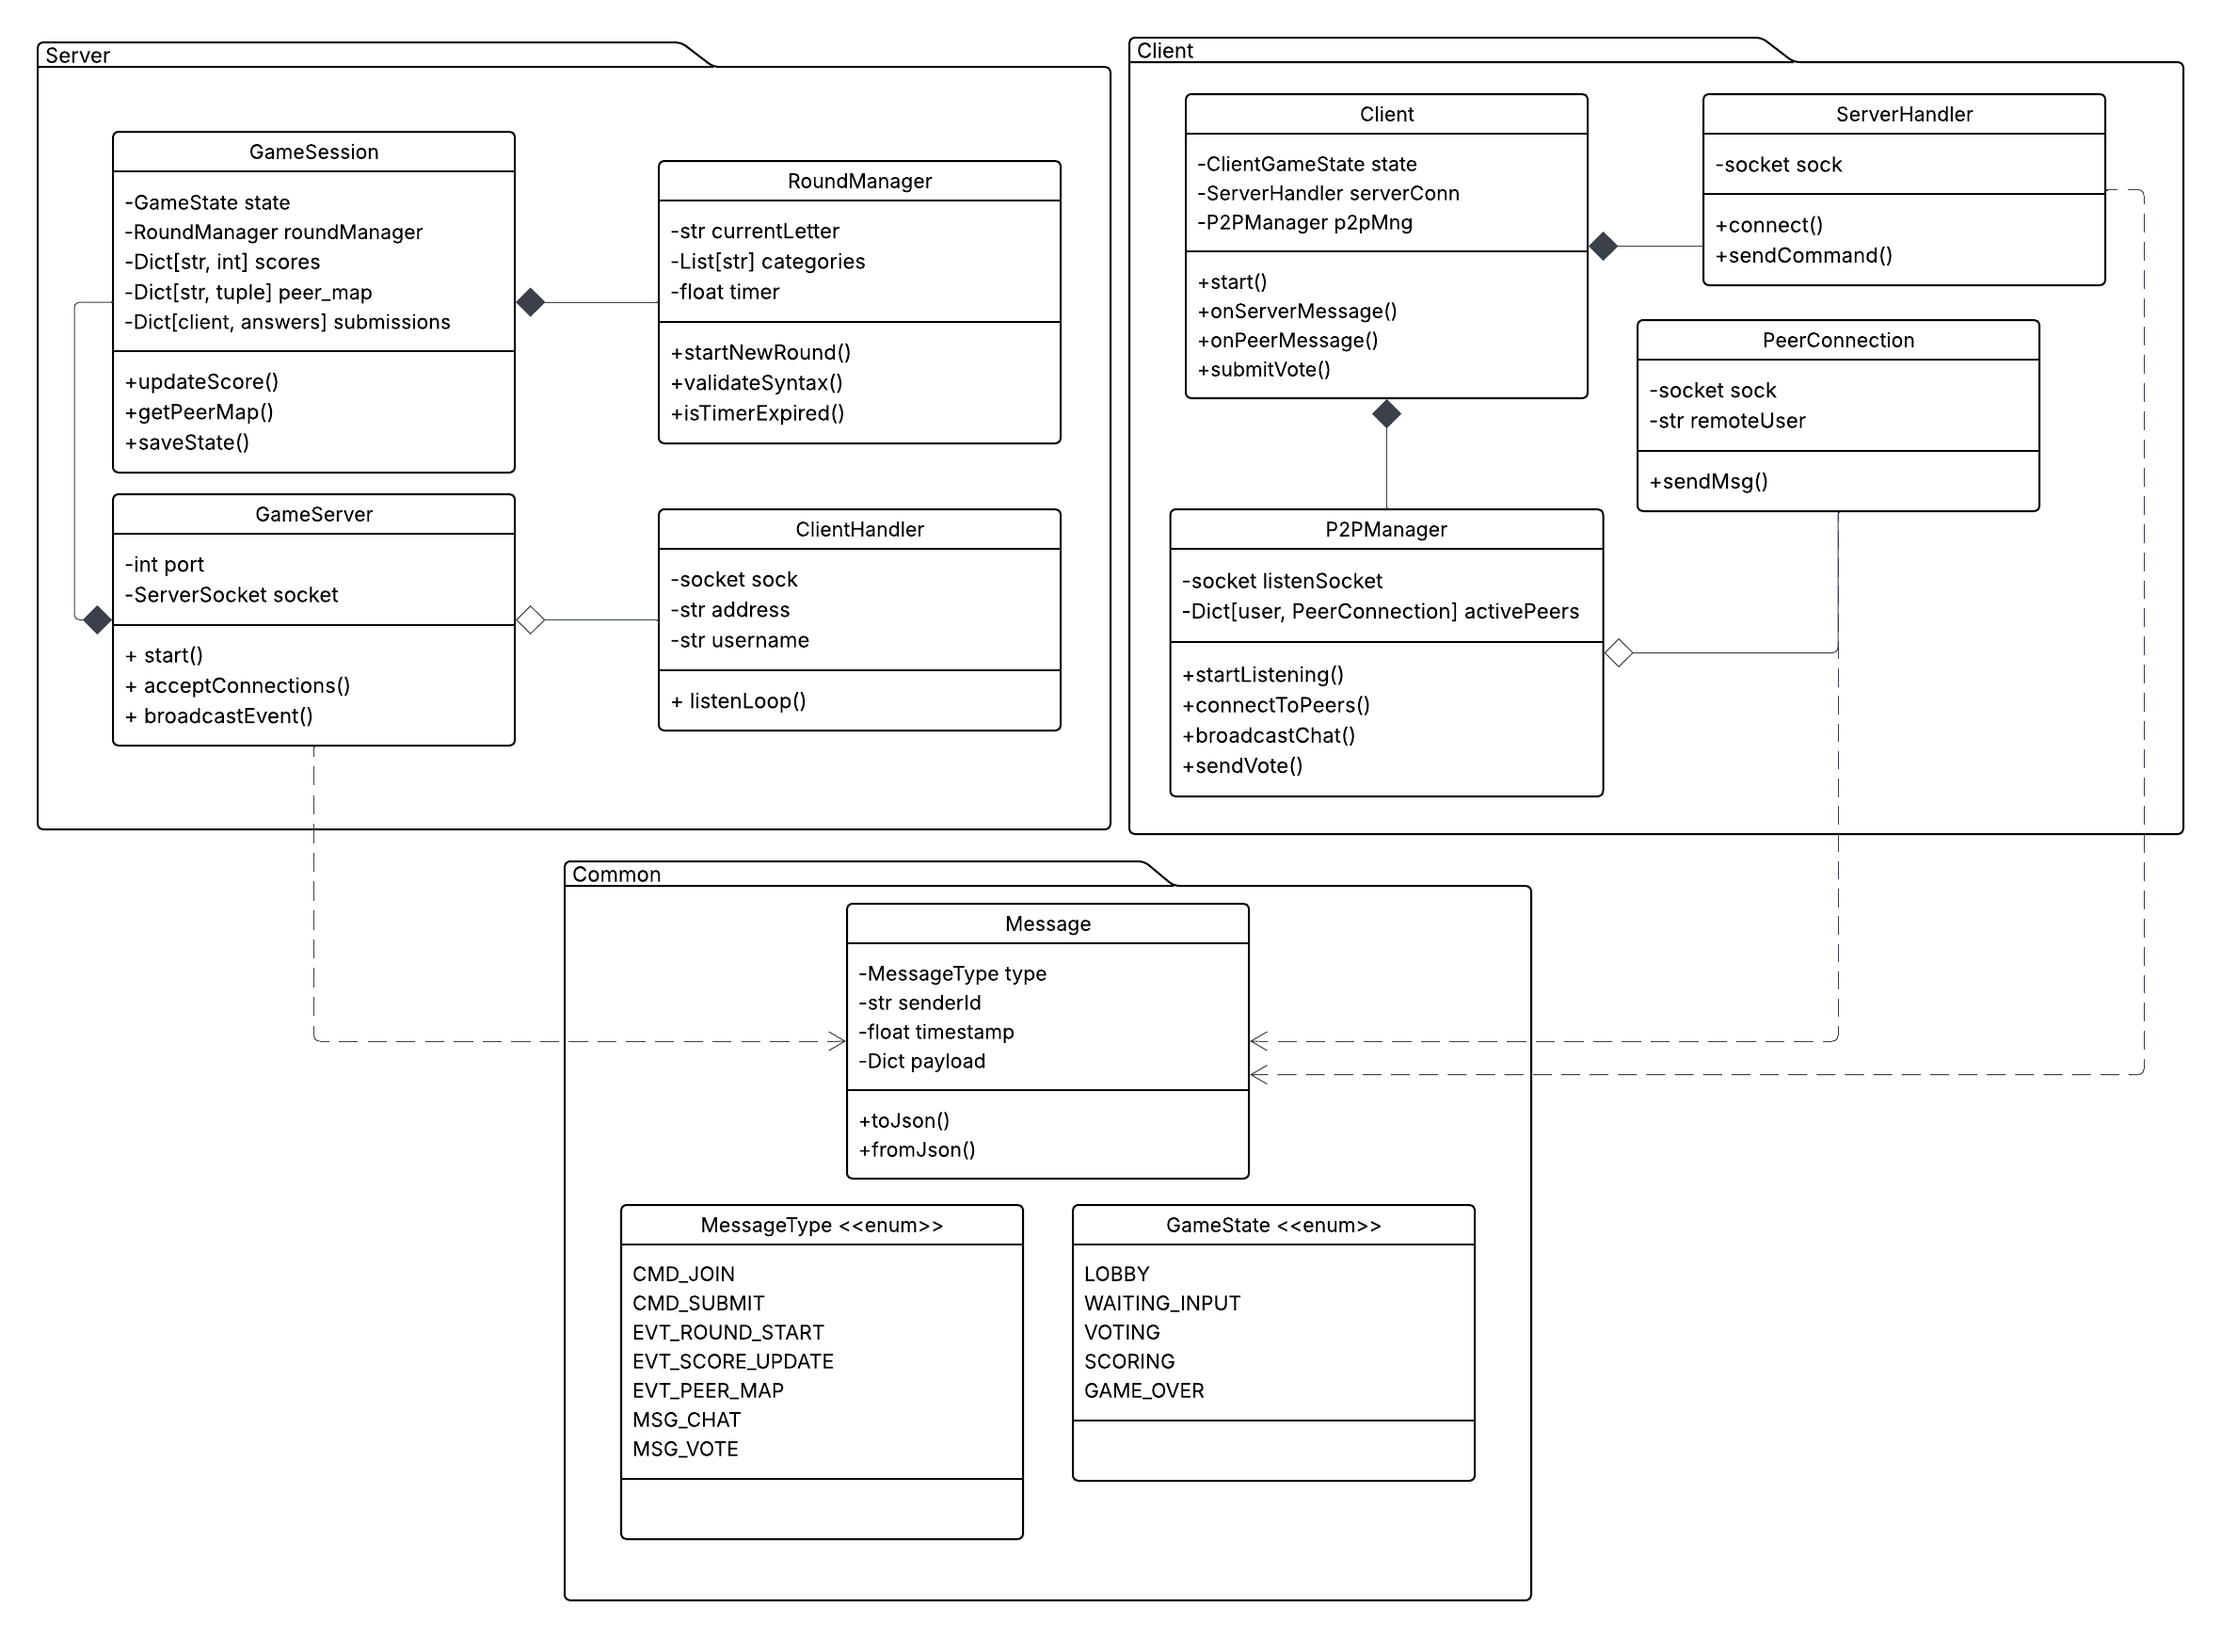
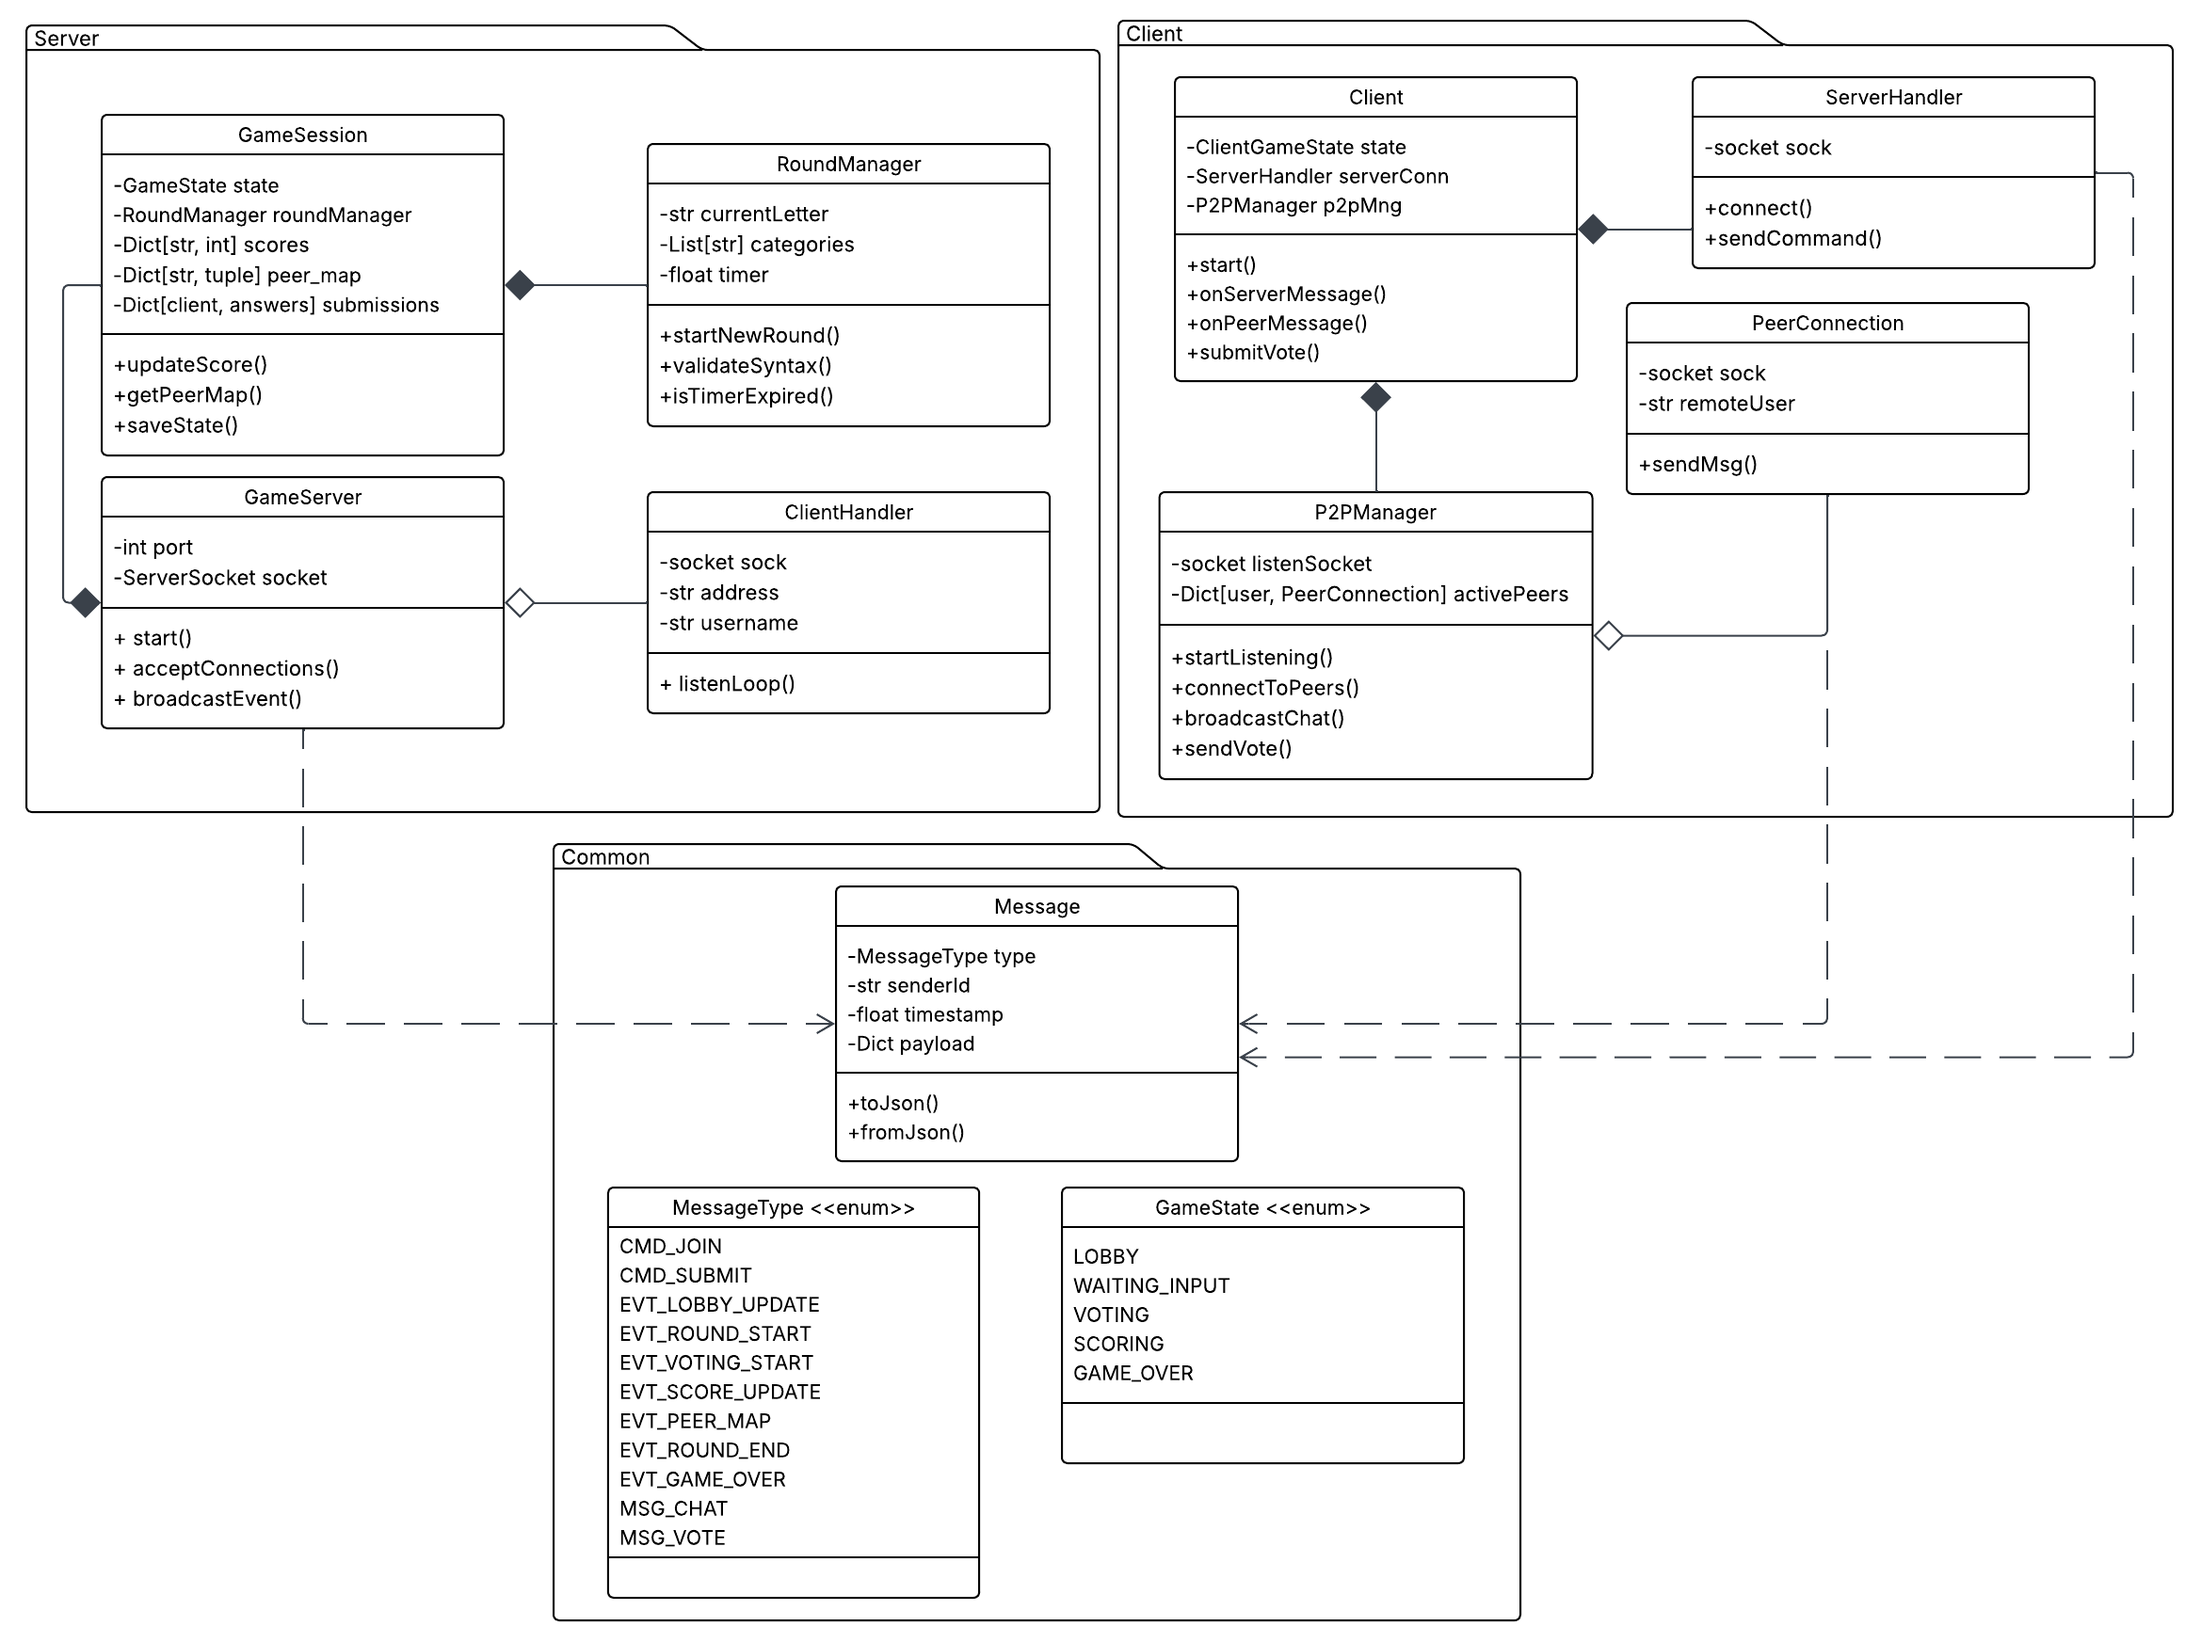
docs: add msg type in figures and report

diff --git a/distributed-systems-final-report.tex b/distributed-systems-final-report.tex
@@ -358,11 +358,12 @@ Communication relies on serialized JSON messages, categorized by interaction typ
     \item \textbf{State Updates (Server $\rightarrow$ Client):} 
     Events broadcasting authoritative changes.
     \begin{itemize}
-        \item \texttt{EVT\_ROUND\_START}: Contains the letter and categories.
-        \item \texttt{EVT\_PEER\_MAP}: Updates the client with the list of other peers for P2P connection.
-        \item \texttt{EVT\_VOTING\_START}: Signals the beginning of the voting phase.
-        \item \texttt{EVT\_SCORE\_UPDATE}: Broadcasts the new leaderboard after a round.
-        \item \texttt{EVT\_GAME\_OVER}: Announces the end of the game and the final scores.
+      \item \texttt{EVT\_LOBBY\_UPDATE}: Notifies clients of new players joining the lobby.
+      \item \texttt{EVT\_ROUND\_START}: Contains the letter and categories.
+      \item \texttt{EVT\_PEER\_MAP}: Updates the client with the list of other peers for P2P connection.
+      \item \texttt{EVT\_VOTING\_START}: Signals the beginning of the voting phase.
+      \item \texttt{EVT\_SCORE\_UPDATE}: Broadcasts the new leaderboard after a round.
+      \item \texttt{EVT\_GAME\_OVER}: Announces the end of the game and the final scores.
     \end{itemize}
 
     \item \textbf{Peer Interactions (P2P Client $\leftrightarrow$ Client):} 
